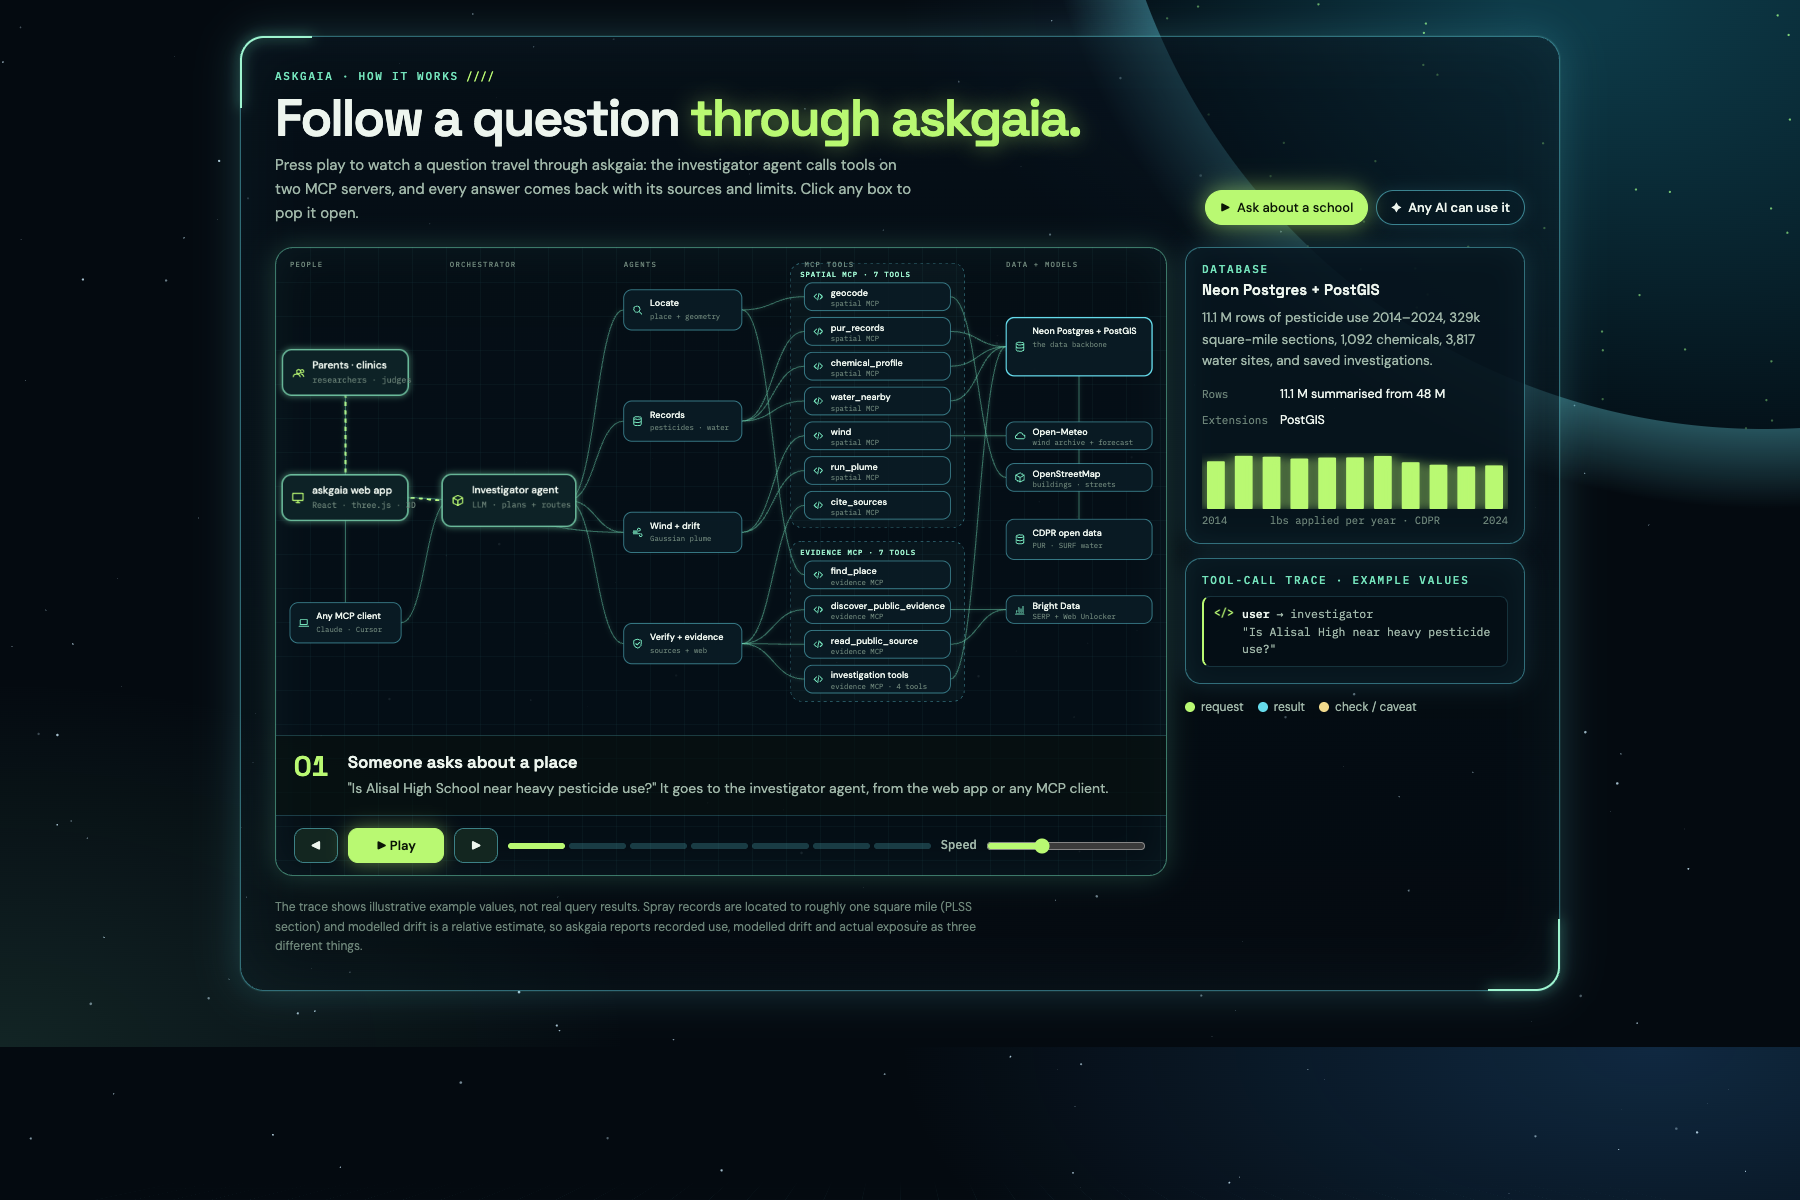
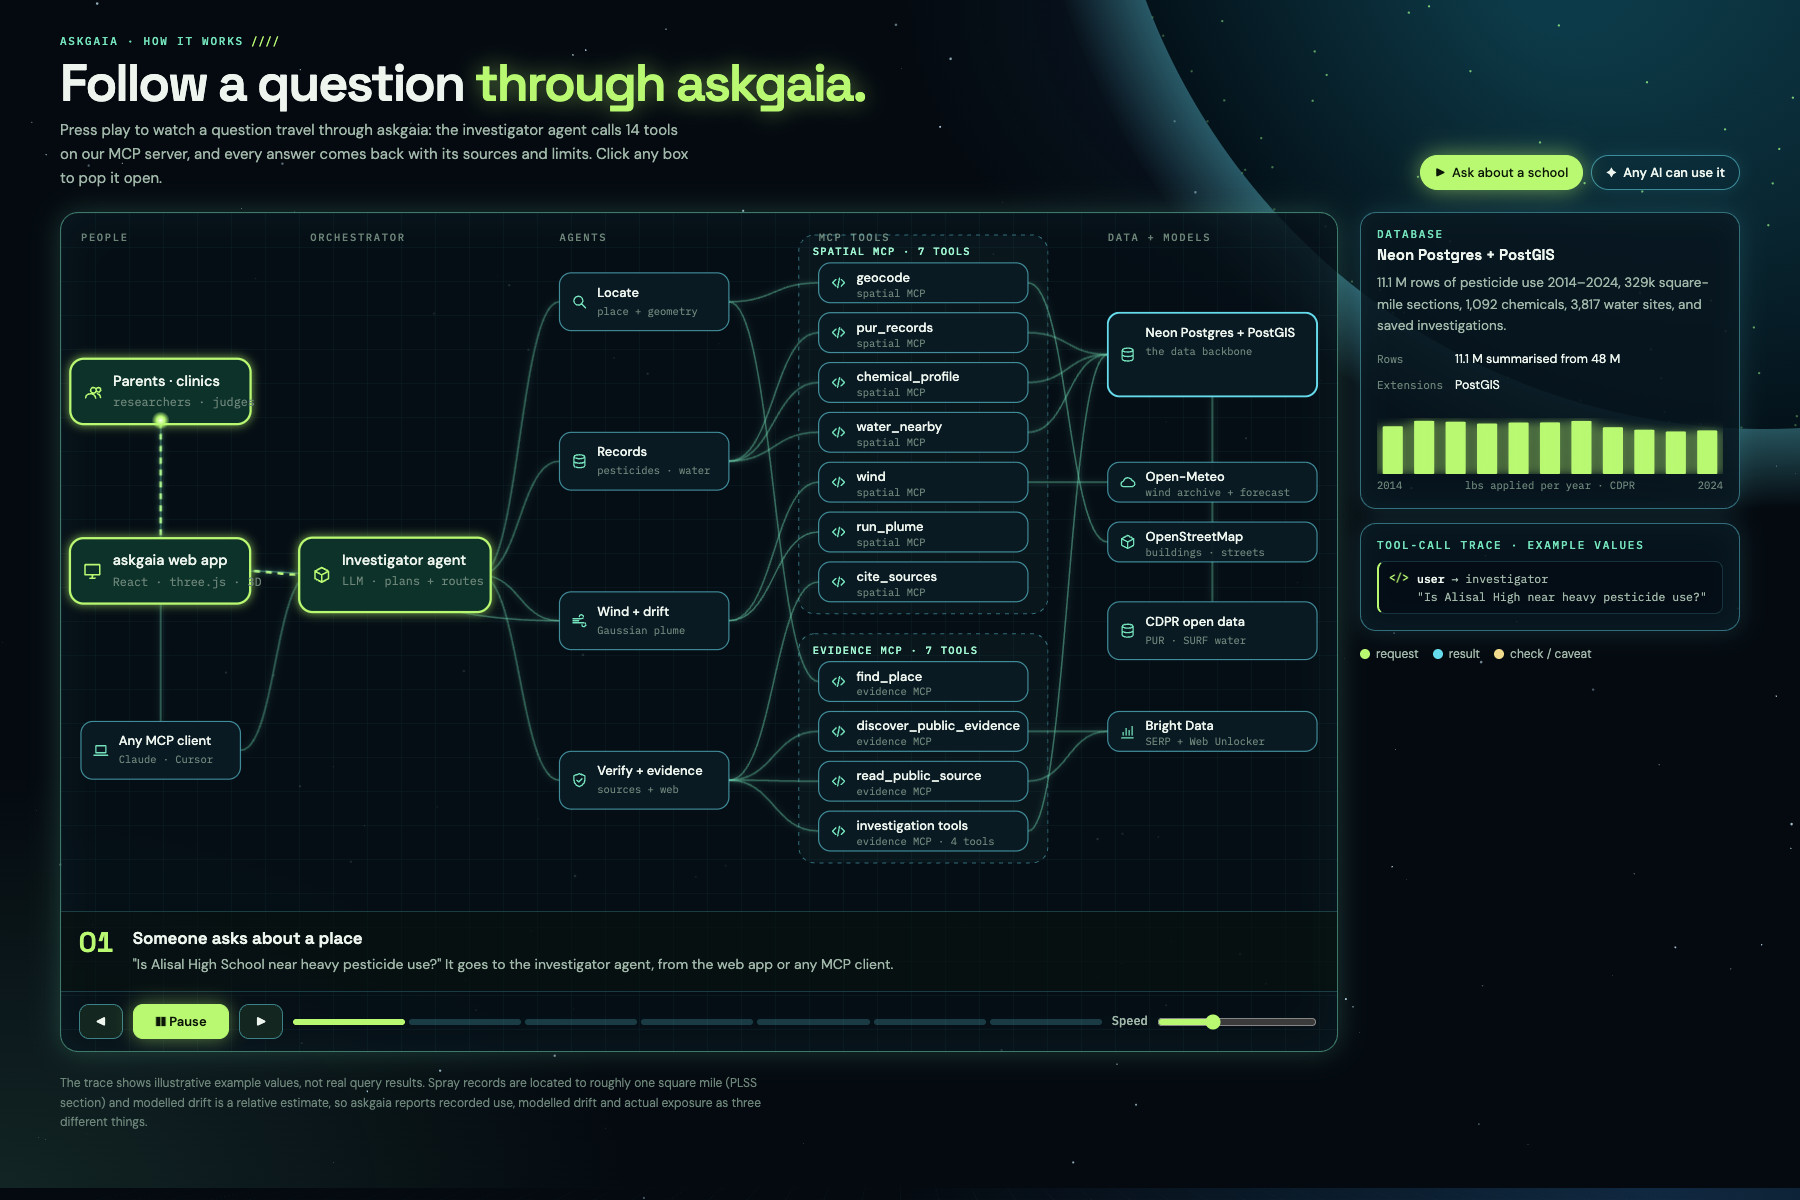
How it works: one MCP server wording; updated screenshot

diff --git a/frontend/public/architecture.html b/frontend/public/architecture.html
@@ -146,7 +146,7 @@ h1 em{text-shadow:0 0 22px rgba(185,249,114,.45)}
     <div>
       <div class="eyebrow">askgaia · how it works</div>
       <h1>Follow a question <em>through askgaia.</em></h1>
-      <p class="lede">Press play to watch a question travel through askgaia: the investigator agent calls tools on two MCP servers, and every answer comes back with its sources and limits. Click any box to pop it open.</p>
+      <p class="lede">Press play to watch a question travel through askgaia: the investigator agent calls 14 tools on our MCP server, and every answer comes back with its sources and limits. Click any box to pop it open.</p>
     </div>
     <div class="scen" role="group" aria-label="Scenario">
       <button id="sc0" aria-pressed="true">▶&nbsp; Ask about a school</button>
